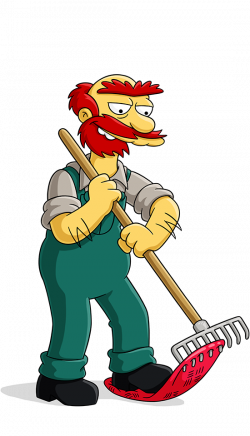
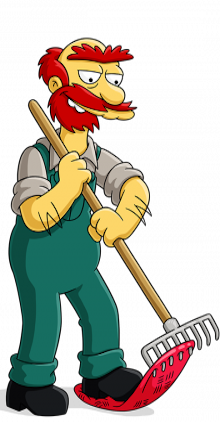
Редактирование characters.html

diff --git a/style/custom.css b/style/custom.css
@@ -245,119 +245,101 @@ a {
 }
 
 .charactersPeopleImages {
-  /* background-size: 120%; */
   background-repeat: no-repeat;
   background-position: center center;
   border: none;
-  background-size: 143%;
+  background-size: contain;
   padding: 0px 35px;
-  /* width: 100% */
-
+  transition: 1s;
   height: 200px;
-  /* margin-left: 30px; */
 }
-
+.backgroundCharacters {
+  background: transparent;
+  border-radius: 90px 0px 90px 0px;
+  transition: 1s;
+}
+.backgroundCharacters:hover {
+  background: #182141;
+  opacity: 1;
+}
 /* Симпсоны */
 .gomerImage {
+  /* background: red; */
   background-image: url(../images/characters/simpsons/gomer.png);
-  /* background-size: 143%; */
 }
 .margjImage {
   background-image: url(../images/characters/simpsons/margj.png);
-  /* background-size: 143%; */
 }
 .bartImage {
   background-image: url(../images/characters/simpsons/bart.png);
-  /* background-size: 143%; */
 }
 .dedSimpson {
   background-image: url(../images/characters/simpsons/dedSimpson.png);
-  background-size: 90%;
 }
 .lizaSimpson {
   background-image: url(../images/characters/simpsons/lizaSimpson.png);
-  background-size: 80%;
 }
 .meggi {
   background-image: url(../images/characters/simpsons/meggi.png);
-  background-size: 110%;
 }
 /* Ванхутэны */
 .kirkVanHouten {
   background-image: url(../images/characters/vanxytens/kirkVanHouten.png);
-  background-size: 100%;
 }
 .luannVanHouten {
   background-image: url(../images/characters/vanxytens/luannVanHouten.png);
-  background-size: 100%;
 }
 .grandmaVanHouten {
   background-image: url(../images/characters/vanxytens/grandmaVanHouten.png);
-  background-size: 110%;
 }
 /* Апу */
 .apy {
   background-image: url(../images/characters/apy/apy.png);
-  background-size: 100%;
 }
 .fatherApy {
   background-image: url(../images/characters/apy/fatherApy.png);
-  background-size: 102%;
 }
 .mandjyla {
   background-image: url(../images/characters/apy/mandjyla.png);
-  background-size: 70%;
 }
 /* Фландерсы */
 .ned {
   background-image: url(../images/characters/flanders/ned.png);
-  background-size: 102%;
 }
 .moude {
   background-image: url(../images/characters/flanders/moude.png);
-  background-size: 152%;
 }
 .todd {
   background-image: url(../images/characters/flanders/todd.png);
-  background-size: 102%;
 }
 /* Бубье */
 .patty {
   background-image: url(../images/characters/bube/patty.png);
-  background-size: 130%;
 }
 .jacqueline {
   background-image: url(../images/characters/bube/jacqueline.png);
-  background-size: 105%;
 }
 .selma {
   background-image: url(../images/characters/bube/selma.png);
-  background-size: 105%;
 }
 /* Школные раюотники */
 .skinner {
   background-image: url(../images/characters/workShcool/skinner.png);
-  background-size: 159%;
 }
 .willie {
   background-image: url(../images/characters/workShcool/willie.png);
-  background-size: 140%;
 }
 .edna {
   background-image: url(../images/characters/workShcool/edna.png);
-  background-size: 90%;
 }
 .dud {
   background-image: url(../images/characters/workShcool/dyd.png);
-  background-size: 110%;
 }
 .otto {
   background-image: url(../images/characters/workShcool/otto.png);
-  background-size: 100%;
 }
 .doris {
   background-image: url(../images/characters/workShcool/doris.png);
-  background-size: 105%;
 }
 /* end style characters */
 

diff --git a/elems/characters/simpsons.html b/elems/characters/simpsons.html
@@ -8,7 +8,9 @@
       <!-- гомер -->
       <div class="four columns blockCenter">
         <a href="https://play.google.com/store/apps/details?id=com.ea.game.simpsons4_row">
-          <button type="button" href="index.html" class="charactersPeopleImages gomerImage" name="button"></button>
+          <div class="backgroundCharacters">
+            <button type="button" href="index.html" class="charactersPeopleImages gomerImage" name="button"></button>
+          </div>
         </a>
         <hr class="longHrRigth minMonitorHr">
       </div>
@@ -16,7 +18,9 @@
       <!-- мардж -->
       <div class="four columns blockCenter">
         <a href="https://play.google.com/store/apps/details?id=com.ea.game.simpsons4_row">
-          <button type="button" href="index.html" class="charactersPeopleImages margjImage" name="button"></button>
+          <div class="backgroundCharacters">
+            <button type="button" href="index.html" class="charactersPeopleImages margjImage" name="button"></button>
+          </div>
         </a>
         <hr class="longHrRigth minMonitorHr">
       </div>
@@ -24,7 +28,9 @@
       <!-- барт -->
       <div class="four columns blockCenter">
         <a href="bart">
-          <button type="button" href="index.html" class="charactersPeopleImages bartImage" name="button"></button>
+          <div class="backgroundCharacters">
+            <button type="button" href="index.html" class="charactersPeopleImages bartImage" name="button"></button>
+          </div>
         </a>
         <hr class="minMonitorHr">
       </div>
@@ -36,21 +42,27 @@
       <!-- дед симпсонов -->
       <div class="four columns blockCenter">
         <a href="https://play.google.com/store/apps/details?id=com.ea.game.simpsons4_row">
-          <button type="button" href="index.html" class="charactersPeopleImages dedSimpson" name="button"></button>
+          <div class="backgroundCharacters">
+            <button type="button" href="index.html" class="charactersPeopleImages dedSimpson" name="button"></button>
+          </div>
         </a>
       </div>
 
       <!-- лиза -->
       <div class="four columns blockCenter">
         <a href="https://play.google.com/store/apps/details?id=com.ea.game.simpsons4_row">
-          <button type="button" href="index.html" class="charactersPeopleImages lizaSimpson" name="button"></button>
+          <div class="backgroundCharacters">
+            <button type="button" href="index.html" class="charactersPeopleImages lizaSimpson" name="button"></button>
+          </div>
         </a>
       </div>
 
       <!-- мэгги -->
       <div class="four columns blockCenter">
         <a href="https://play.google.com/store/apps/details?id=com.ea.game.simpsons4_row">
-          <button type="button" href="index.html" class="charactersPeopleImages meggi" name="button"></button>
+          <div class="backgroundCharacters">
+            <button type="button" href="index.html" class="charactersPeopleImages meggi" name="button"></button>
+          </div>
         </a>
       </div>
 

diff --git a/elems/characters/workshcool.html b/elems/characters/workshcool.html
@@ -8,7 +8,9 @@
       <!-- гомер -->
       <div class="four columns blockCenter">
         <a href="https://play.google.com/store/apps/details?id=com.ea.game.simpsons4_row">
-          <button type="button" href="index.html" class="charactersPeopleImages skinner" name="button"></button>
+          <div class="backgroundCharacters">
+            <button type="button" href="index.html" class="charactersPeopleImages skinner" name="button"></button>
+          </div>
         </a>
         <hr class="longHrRigth minMonitorHr">
       </div>
@@ -16,7 +18,9 @@
       <!-- мардж -->
       <div class="four columns blockCenter">
         <a href="https://play.google.com/store/apps/details?id=com.ea.game.simpsons4_row">
-          <button type="button" href="index.html" class="charactersPeopleImages willie" name="button"></button>
+          <div class="backgroundCharacters">
+            <button type="button" href="index.html" class="charactersPeopleImages willie" name="button"></button>
+          </div>
         </a>
         <hr class="longHrRigth minMonitorHr">
       </div>
@@ -24,7 +28,9 @@
       <!-- барт -->
       <div class="four columns blockCenter">
         <a href="https://play.google.com/store/apps/details?id=com.ea.game.simpsons4_row">
-          <button type="button" href="index.html" class="charactersPeopleImages edna" name="button"></button>
+          <div class="backgroundCharacters">
+            <button type="button" href="index.html" class="charactersPeopleImages edna" name="button"></button>
+          </div>
         </a>
         <hr class="minMonitorHr">
       </div>
@@ -36,21 +42,27 @@
       <!-- дед симпсонов -->
       <div class="four columns blockCenter">
         <a href="largo">
-          <button type="button" href="index.html" class="charactersPeopleImages dud" name="button"></button>
+          <div class="backgroundCharacters">
+            <button type="button" href="index.html" class="charactersPeopleImages dud" name="button"></button>
+          </div>
         </a>
       </div>
 
       <!-- лиза -->
       <div class="four columns blockCenter">
         <a href="https://play.google.com/store/apps/details?id=com.ea.game.simpsons4_row">
-          <button type="button" href="index.html" class="charactersPeopleImages otto" name="button"></button>
+          <div class="backgroundCharacters">
+            <button type="button" href="index.html" class="charactersPeopleImages otto" name="button"></button>
+          </div>
         </a>
       </div>
 
       <!-- мэгги -->
       <div class="four columns blockCenter">
         <a href="https://play.google.com/store/apps/details?id=com.ea.game.simpsons4_row">
-          <button type="button" href="index.html" class="charactersPeopleImages doris" name="button"></button>
+          <div class="backgroundCharacters">
+            <button type="button" href="index.html" class="charactersPeopleImages doris" name="button"></button>
+          </div>
         </a>
       </div>
 

diff --git a/elems/characters/apys.html b/elems/characters/apys.html
@@ -8,7 +8,9 @@
       <!-- гомер -->
       <div class="four columns blockCenter">
         <a href="https://play.google.com/store/apps/details?id=com.ea.game.simpsons4_row">
-          <button type="button" href="index.html" class="charactersPeopleImages apy" name="button"></button>
+          <div class="backgroundCharacters">
+            <button type="button" href="index.html" class="charactersPeopleImages apy" name="button"></button>
+          </div>
         </a>
         <!-- <hr class="longHrRigth minMonitorHr"> -->
       </div>
@@ -16,7 +18,9 @@
       <!-- мардж -->
       <div class="four columns blockCenter">
         <a href="https://play.google.com/store/apps/details?id=com.ea.game.simpsons4_row">
-          <button type="button" href="index.html" class="charactersPeopleImages fatherApy" name="button"></button>
+          <div class="backgroundCharacters">
+            <button type="button" href="index.html" class="charactersPeopleImages fatherApy" name="button"></button>
+          </div>
         </a>
         <!-- <hr class="longHrRigth minMonitorHr"> -->
       </div>
@@ -24,7 +28,9 @@
       <!-- барт -->
       <div class="four columns blockCenter">
         <a href="https://play.google.com/store/apps/details?id=com.ea.game.simpsons4_row">
-          <button type="button" href="index.html" class="charactersPeopleImages mandjyla" name="button"></button>
+          <div class="backgroundCharacters">
+            <button type="button" href="index.html" class="charactersPeopleImages mandjyla" name="button"></button>
+          </div>
         </a>
         <!-- <hr class="minMonitorHr"> -->
       </div>

diff --git a/elems/characters/vanxytens.html b/elems/characters/vanxytens.html
@@ -8,7 +8,9 @@
       <!-- гомер -->
       <div class="four columns blockCenter">
         <a href="https://play.google.com/store/apps/details?id=com.ea.game.simpsons4_row">
-          <button type="button" href="index.html" class="charactersPeopleImages kirkVanHouten" name="button"></button>
+          <div class="backgroundCharacters">
+            <button type="button" href="index.html" class="charactersPeopleImages kirkVanHouten" name="button"></button>
+          </div>
         </a>
         <!-- <hr class="longHrRigth minMonitorHr"> -->
       </div>
@@ -16,7 +18,9 @@
       <!-- мардж -->
       <div class="four columns blockCenter">
         <a href="lyan">
-          <button type="button" href="#" class="charactersPeopleImages luannVanHouten" name="button"></button>
+          <div class="backgroundCharacters">
+            <button type="button" href="#" class="charactersPeopleImages luannVanHouten" name="button"></button>
+          </div>
         </a>
         <!-- <hr class="longHrRigth minMonitorHr"> -->
       </div>
@@ -24,7 +28,9 @@
       <!-- барт -->
       <div class="four columns blockCenter">
         <a href="https://play.google.com/store/apps/details?id=com.ea.game.simpsons4_row">
-          <button type="button" href="index.html" class="charactersPeopleImages grandmaVanHouten" name="button"></button>
+          <div class="backgroundCharacters">
+            <button type="button" href="index.html" class="charactersPeopleImages grandmaVanHouten" name="button"></button>
+          </div>
         </a>
         <!-- <hr class="minMonitorHr"> -->
       </div>

diff --git a/elems/characters/bubes.html b/elems/characters/bubes.html
@@ -7,19 +7,25 @@
 
       <div class="four columns blockCenter">
         <a href="https://play.google.com/store/apps/details?id=com.ea.game.simpsons4_row">
-          <button type="button" href="index.html" class="charactersPeopleImages patty" name="button"></button>
+          <div class="backgroundCharacters">
+            <button type="button" href="index.html" class="charactersPeopleImages patty" name="button"></button>
+          </div>
         </a>
       </div>
 
       <div class="four columns blockCenter">
         <a href="https://play.google.com/store/apps/details?id=com.ea.game.simpsons4_row">
-          <button type="button" href="index.html" class="charactersPeopleImages jacqueline" name="button"></button>
+          <div class="backgroundCharacters">
+            <button type="button" href="index.html" class="charactersPeopleImages jacqueline" name="button"></button>
+          </div>
         </a>
       </div>
 
       <div class="four columns blockCenter">
         <a href="https://play.google.com/store/apps/details?id=com.ea.game.simpsons4_row">
-          <button type="button" href="index.html" class="charactersPeopleImages selma" name="button"></button>
+          <div class="backgroundCharacters">
+            <button type="button" href="index.html" class="charactersPeopleImages selma" name="button"></button>
+          </div>
         </a>
       </div>
 

diff --git a/elems/characters/flanders.html b/elems/characters/flanders.html
@@ -7,19 +7,25 @@
 
       <div class="four columns blockCenter">
         <a href="https://play.google.com/store/apps/details?id=com.ea.game.simpsons4_row">
-          <button type="button" href="index.html" class="charactersPeopleImages ned" name="button"></button>
+          <div class="backgroundCharacters">
+            <button type="button" href="index.html" class="charactersPeopleImages ned" name="button"></button>
+          </div>
         </a>
       </div>
 
       <div class="four columns blockCenter">
         <a href="https://play.google.com/store/apps/details?id=com.ea.game.simpsons4_row">
-          <button type="button" href="index.html" class="charactersPeopleImages moude" name="button"></button>
+          <div class="backgroundCharacters">
+            <button type="button" href="index.html" class="charactersPeopleImages moude" name="button"></button>
+          </div>
         </a>
       </div>
 
       <div class="four columns blockCenter">
         <a href="https://play.google.com/store/apps/details?id=com.ea.game.simpsons4_row">
-          <button type="button" href="index.html" class="charactersPeopleImages todd" name="button"></button>
+          <div class="backgroundCharacters">
+            <button type="button" href="index.html" class="charactersPeopleImages todd" name="button"></button>
+          </div>
         </a>
       </div>
 
